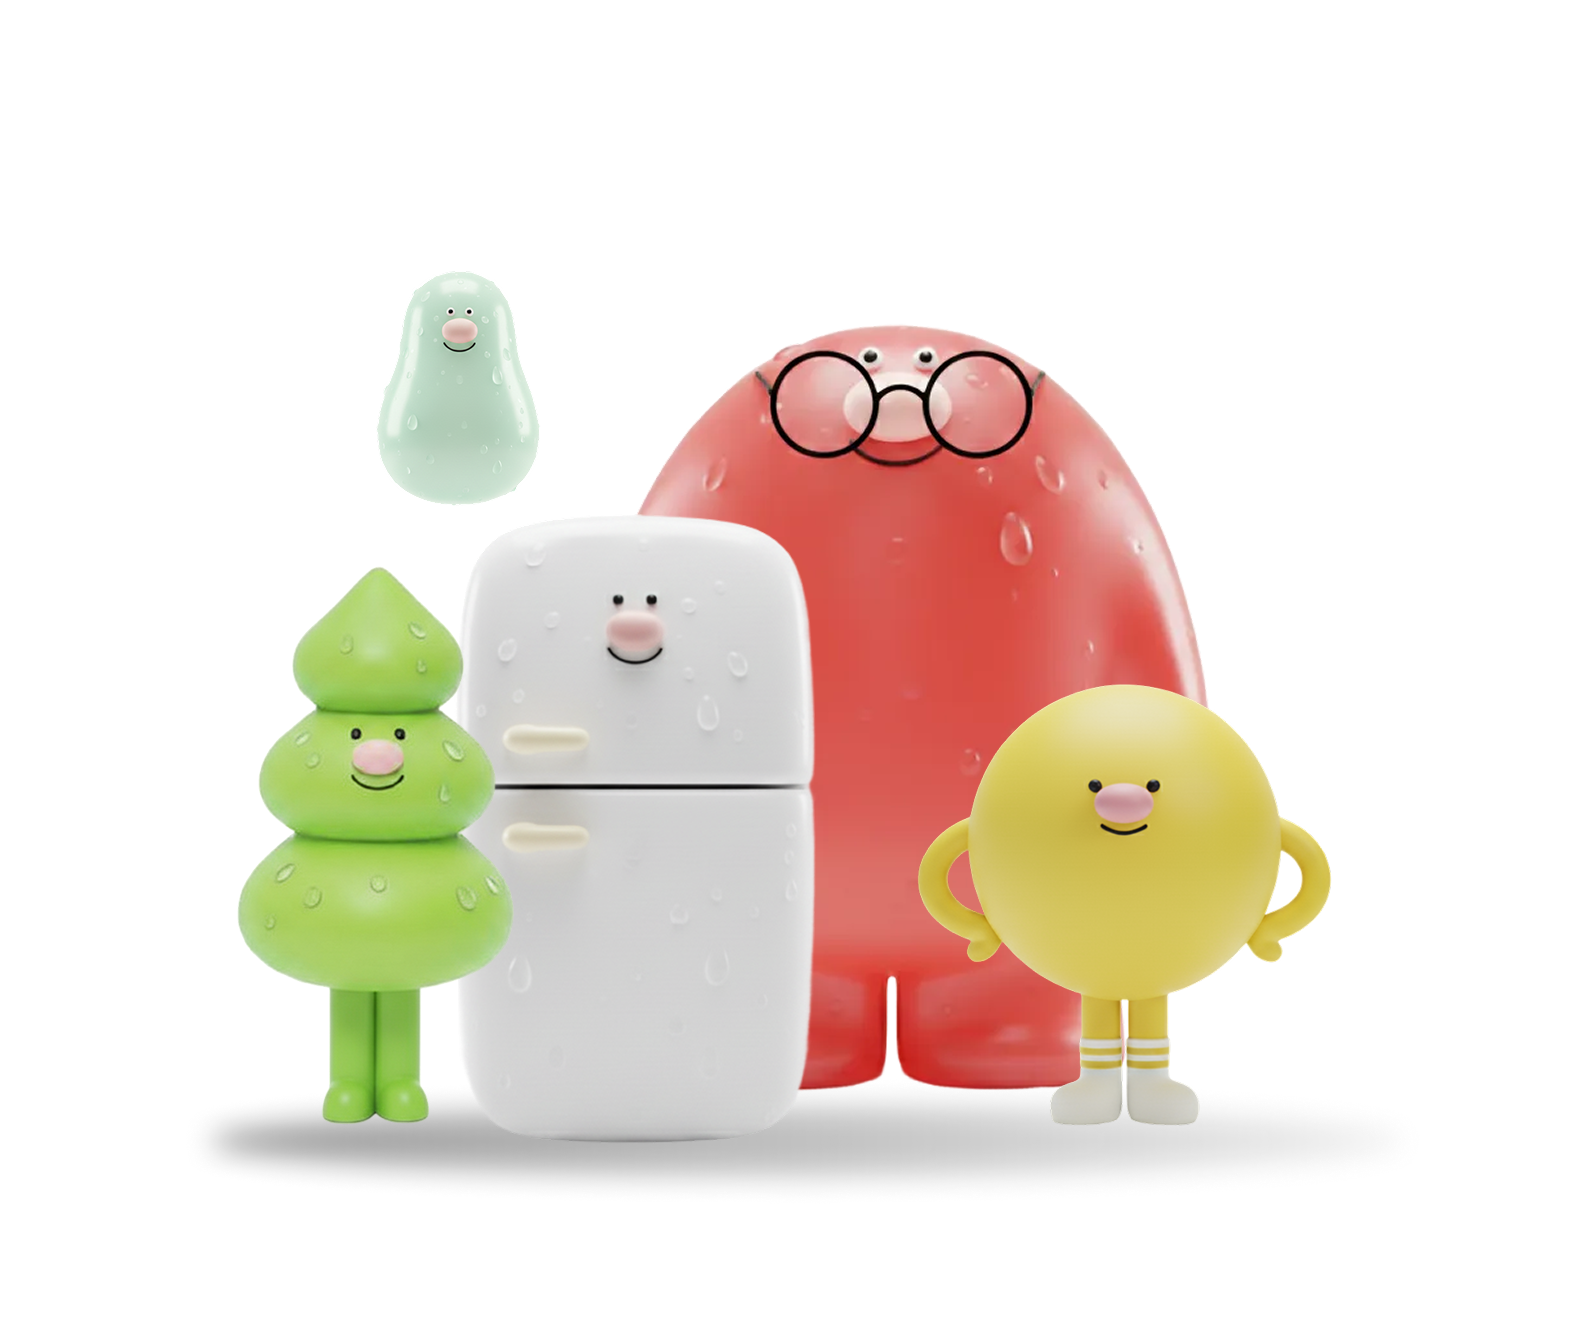
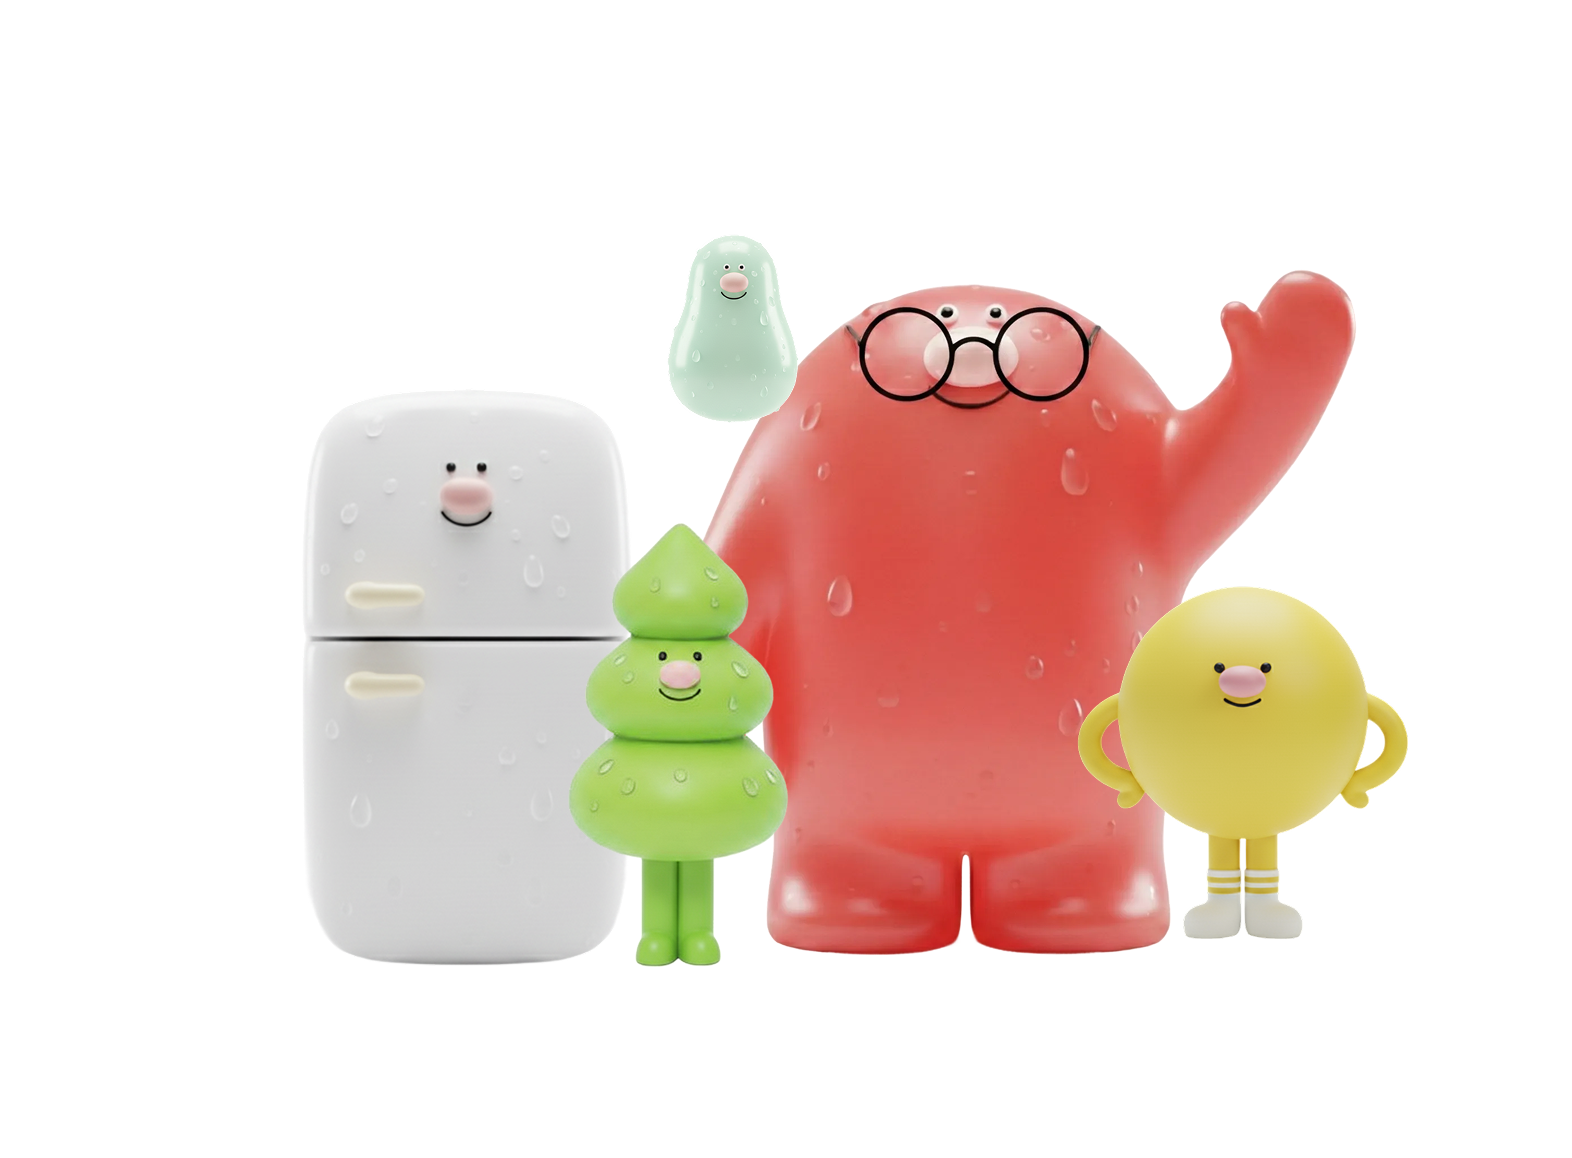
feat: 更新啟動畫面元件與相關圖片資源

Changed region(s): [[0.1247, 0.1865, 0.9039, 0.9016]]

diff --git a/src/shared/components/SplashScreen.tsx b/src/shared/components/SplashScreen.tsx
@@ -1,6 +1,8 @@
-import { useEffect, useRef } from 'react';
+
+import { useRef } from 'react';
 import { gsap } from 'gsap';
-import bgImage from '@/assets/images/startup/bg.png';
+import { useGSAP } from '@gsap/react';
+
 import charImage from '@/assets/images/startup/char.png';
 import logoImage from '@/assets/images/startup/logo.png';
 
@@ -9,41 +11,33 @@ export const SplashScreen = () => {
   const logoRef = useRef<HTMLImageElement>(null);
   const charRef = useRef<HTMLImageElement>(null);
 
-  useEffect(() => {
-    // GSAP 時間軸動畫
-    const tl = gsap.timeline({
-      defaults: { ease: 'power2.out' },
-    });
+  useGSAP(
+    () => {
+      // GSAP 時間軸動畫
+      const tl = gsap.timeline({
+        defaults: { ease: 'power2.out' },
+      });
 
-    // 動畫序列
-    tl.fromTo(
-      logoRef.current,
-      { opacity: 0, y: -20 },
-      { opacity: 1, y: 0, duration: 0.6, delay: 0.2 },
-    ).fromTo(
-      charRef.current,
-      { opacity: 0, y: 30 },
-      { opacity: 1, y: 0, duration: 0.8 },
-      '-=0.3', // 與前一個動畫重疊 0.3 秒
-    );
-
-    return () => {
-      tl.kill(); // 清理動畫
-    };
-  }, []);
+      // 動畫序列
+      tl.fromTo(
+        logoRef.current,
+        { opacity: 0, y: -20 },
+        { opacity: 1, y: 0, duration: 0.6, delay: 0.2 },
+      ).fromTo(
+        charRef.current,
+        { opacity: 0, y: 30 },
+        { opacity: 1, y: 0, duration: 0.8 },
+        '-=0.3', // 與前一個動畫重疊 0.3 秒
+      );
+    },
+    { scope: containerRef },
+  );
 
   return (
     <div
       ref={containerRef}
-      className="fixed inset-0 z-50 overflow-hidden bg-white"
+      className="fixed inset-0 z-50 overflow-hidden bg-primary-100"
     >
-      {/* 背景圖 */}
-      <img
-        src={bgImage}
-        alt="Background"
-        className="absolute inset-0 w-full h-full object-cover"
-      />
-
       {/* 內容容器 */}
       <div className="relative h-full flex flex-col items-center justify-center px-6">
         {/* Logo */}
@@ -51,7 +45,7 @@ export const SplashScreen = () => {
           ref={logoRef}
           src={logoImage}
           alt="fufood Logo"
-          className="w-48 mb-8"
+          className="w-[45%] max-w-[240px] -mb-3"
           style={{ opacity: 0 }}
         />
 
@@ -60,7 +54,7 @@ export const SplashScreen = () => {
           ref={charRef}
           src={charImage}
           alt="Characters"
-          className="w-64 max-w-[80%]"
+          className="w-[120%] max-w-[420px] mr-5"
           style={{ opacity: 0 }}
         />
       </div>
